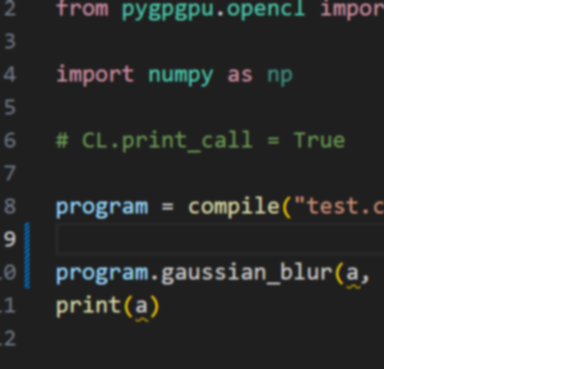
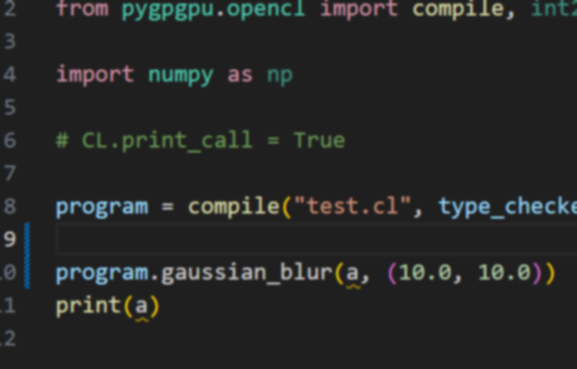
fix image2d bugs

diff --git a/pygpgpu/opencl/oop/event.py b/pygpgpu/opencl/oop/event.py
@@ -5,7 +5,7 @@ from ctypes import pointer, c_void_p, cast, POINTER, py_object
 import concurrent.futures
 import asyncio
 import traceback
-from typing import Dict, Optional, Callable, List, TYPE_CHECKING, Union, override
+from typing import Dict, Optional, Callable, List, TYPE_CHECKING, Union, override, Set
 
 from ..runtime import (
     CL,
@@ -26,6 +26,8 @@ if TYPE_CHECKING:
 
 class Event(CLObject):
 
+    __retained_events:Set[Event] = set()
+
     def __init__(self, context:Context, event_id:Optional[cl_event]=None, func:Optional[CL.Func]=None):
         error_code = cl_int(0)
         self._context:Context = context
@@ -39,16 +41,25 @@ class Event(CLObject):
             event_id = CL.clCreateUserEvent(context, pointer(error_code))
             self._is_user_event:bool = True
 
+        CLObject.__init__(self, event_id)
+        Event.__retained_events.add(self)
+
         self.on_status_changed_callbacks:List[Callable[[Event, Union[cl_command_execution_status, ErrorCode]], None]] = []
         self.on_submitted_callbacks:List[Callable[[Event], None]] = []
         self.on_completed_callbacks:List[Callable[[Event, ErrorCode], None]] = []
         self.on_started_callbacks:List[Callable[[Event], None]] = []
-        CLObject.__init__(self, event_id)
 
         user_data = cast(pointer(py_object(self)), c_void_p)
         CL.clSetEventCallback(self.id, cl_command_execution_status.CL_SUBMITTED, Event._pfn_notify, user_data)
         CL.clSetEventCallback(self.id, cl_command_execution_status.CL_RUNNING, Event._pfn_notify, user_data)
         CL.clSetEventCallback(self.id, cl_command_execution_status.CL_COMPLETE, Event._pfn_notify, user_data)
+        
+        status = self.status
+        if status == cl_command_execution_status.CL_COMPLETE or isinstance(status, ErrorCode):
+            try:
+                Event.__retained_events.remove(self)
+            except:
+                pass
 
     def wait(events:Union[Event, List[Event]])->None:
         if isinstance(events, Event):
@@ -144,12 +155,11 @@ class Event(CLObject):
             status = cl_command_execution_status(event_command_status)
         else:
             status = ErrorCode(event_command_status)
-
-        try:
-            self:Event = cast(user_data, POINTER(py_object)).contents.value
-        except:
-            print(event, status, user_data)
-
+        
+        self:Event = cast(user_data, POINTER(py_object)).contents.value
+        if not isinstance(self, Event):
+            raise RuntimeError("invalid event")
+        
         for on_status_changed in self.on_status_changed_callbacks:
             on_status_changed(self, status)
 
@@ -167,6 +177,9 @@ class Event(CLObject):
 
             for on_completed in self.on_completed_callbacks:
                 on_completed(self, error_code)
+
+        if (status == cl_command_execution_status.CL_COMPLETE or isinstance(status, ErrorCode)) and self in Event.__retained_events:
+            Event.__retained_events.remove(self)
 
     @override
     @staticmethod

diff --git a/pygpgpu/opencl/runtime/clinfo.py b/pygpgpu/opencl/runtime/clinfo.py
@@ -1553,6 +1553,27 @@ class CLInfo:
             }
         },
 
+        # cl_sampler clCreateSamplerWithProperties(
+        #     cl_context context,
+        #     const cl_sampler_properties* sampler_properties,
+        #     cl_int* errcode_ret
+        # );
+        "clCreateSamplerWithProperties": {
+            "args": {
+                "context": cl_context,
+                "sampler_properties": ptr_cl_ulong,
+                "errcode_ret": ptr_cl_int
+            },
+            "restype": cl_sampler,
+            "errors": {
+                ErrorCode.CL_INVALID_CONTEXT: "context is not a valid context.",
+                ErrorCode.CL_INVALID_VALUE: "the property name in sampler_properties is not a supported property name, if the value specified for a supported property name is not valid, or the same property name is specified more than once.",
+                ErrorCode.CL_INVALID_OPERATION: "images are not supported by any device associated with context (i.e. CL_DEVICE_IMAGE_SUPPORT specified in the Device Queries table is CL_FALSE).",
+                ErrorCode.CL_OUT_OF_RESOURCES: "there is a failure to allocate resources required by the OpenCL implementation on the device.",
+                ErrorCode.CL_OUT_OF_HOST_MEMORY: "there is a failure to allocate resources required by the OpenCL implementation on the host."
+            }
+        },
+
         # cl_int clGetSamplerInfo(
         #     cl_sampler sampler,
         #     cl_sampler_info param_name,

diff --git a/pygpgpu/opencl/oop/sampler.py b/pygpgpu/opencl/oop/sampler.py
@@ -10,7 +10,8 @@ from ..runtime import (
     cl_int,
     CLInfo,
     IntEnum,
-    cl_sampler_info
+    cl_sampler_info,
+    cl_ulong
 )
 
 if TYPE_CHECKING:
@@ -24,7 +25,17 @@ class sampler(CLObject):
 
     def __init__(self, context:Context, sampler_t_:sampler_t)->None:
         error_code = cl_int(0)
-        sampler_id:cl_sampler = CL.clCreateSampler(context.id, sampler_t_.normalized_coords, sampler_t_.addressing_mode, sampler_t_.filter_mode, pointer(error_code))
+        try:
+            sampler_id:cl_sampler = CL.clCreateSampler(context.id, sampler_t_.normalized_coords, sampler_t_.addressing_mode, sampler_t_.filter_mode, pointer(error_code))
+        except RuntimeError:
+            props = (cl_ulong * 7)(
+                cl_sampler_info.CL_SAMPLER_NORMALIZED_COORDS, sampler_t_.normalized_coords,
+                cl_sampler_info.CL_SAMPLER_ADDRESSING_MODE,   sampler_t_.addressing_mode,
+                cl_sampler_info.CL_SAMPLER_FILTER_MODE,       sampler_t_.filter_mode,
+                0
+            )
+            sampler_id:cl_sampler = CL.clCreateSamplerWithProperties(context.id, props, pointer(error_code))
+
         self._context:Context = context
         self._sampler_t:sampler_t = sampler_t_
         CLObject.__init__(self, sampler_id)

diff --git a/pygpgpu/opencl/oop/kernel.py b/pygpgpu/opencl/oop/kernel.py
@@ -102,7 +102,7 @@ class Kernel(CLObject):
 
     def __call__(self, *args, **kwargs)->None:
         all_events = self._call(args, kwargs)
-        return Event.wait(all_events)
+        Event.wait(all_events)
 
     def submit(self, *args, **kwargs)->concurrent.futures.Future:
         all_events = self._call(args, kwargs)
@@ -236,7 +236,13 @@ class Kernel(CLObject):
         for arg in self._arg_list:
             if arg.mem is not None and ((arg.mem.flags & cl_mem_flags.CL_MEM_WRITE_ONLY) or (arg.mem.flags & cl_mem_flags.CL_MEM_READ_WRITE)) and not (arg.mem.flags & cl_mem_flags.CL_MEM_READ_ONLY):
                 arg_shape = (arg.mem.data.shape if arg.mem.data is not None else arg.mem.shape)
-                if arg.base_type_str in CLInfo.vec_types and arg_shape[-1] == CLInfo.vec_types[arg.base_type_str].__len__(None):
+                if ((
+                        arg.base_type_str in CLInfo.vec_types and
+                        arg_shape[-1] == CLInfo.vec_types[arg.base_type_str].__len__(None)
+                    ) or (
+                        len(arg_shape) == 3 and isinstance(arg.mem, image2d)
+                    )
+                ):
                     arg_shape = arg_shape[:-1]
                     
                 if max_shape is None:

diff --git a/pygpgpu/opencl/oop/buffer.py b/pygpgpu/opencl/oop/buffer.py
@@ -76,7 +76,6 @@ class Buffer(Mem):
         event_id = cl_event(0)
         CL.clEnqueueWriteBuffer.record_call_stack()
         CL.clEnqueueWriteBuffer(cmd_queue.id, self.id, False, offset, size, host_ptr, len(after_events), events_ptr, pointer(event_id))
-        print("write buffer event", event_id)
         return Event(self.context, event_id, CL.clEnqueueWriteBuffer)
 
     def read(self, cmd_queue:CommandQueue, offset:int=0, size:int=None, host_ptr:c_void_p=None, after_events:List[Event]=None)->Event:
@@ -96,7 +95,6 @@ class Buffer(Mem):
         event_id = cl_event(0)
         CL.clEnqueueReadBuffer.record_call_stack()
         CL.clEnqueueReadBuffer(cmd_queue.id, self.id, True, offset, size, host_ptr, len(after_events), events_ptr, pointer(event_id))
-        print("read buffer event", event_id)
         return Event(self.context, event_id, CL.clEnqueueReadBuffer)
 
     def set_data(self, cmd_queue:CommandQueue, data:Union[bytes, bytearray, np.ndarray], after_events:List[Event]=None)->Event:

diff --git a/pygpgpu/opencl/oop/clobject.py b/pygpgpu/opencl/oop/clobject.py
@@ -48,7 +48,7 @@ class CLObject(ABC):
 
         value = self._fetch_info(key)
         if key not in CLInfo.no_cached_info:
-            self._info[name] = self._fetch_info(key)
+            self._info[name] = value
 
         return value
     
@@ -133,6 +133,8 @@ class CLObject(ABC):
             return cls.from_buffer_copy(buffer).value
         elif issubclass(cls, LittleEndianStructure):
             return cls.from_buffer_copy(buffer)
+        elif issubclass(cls, cl_bool):
+            return bool(cl_uint.from_buffer_copy(buffer).value)
         elif issubclass(cls, IntEnum):
             return cls(cls.dtype().from_buffer_copy(buffer).value)
         elif issubclass(cls, IntFlag):
@@ -141,5 +143,4 @@ class CLObject(ABC):
             return buffer.value.decode("utf-8")
         elif issubclass(cls, bytes):
             return buffer.raw
-        elif issubclass(cls, cl_bool):
-            return bool(cl_uint.from_buffer_copy(buffer).value)
+        

diff --git a/pygpgpu/opencl/oop/image2d.py b/pygpgpu/opencl/oop/image2d.py
@@ -54,8 +54,7 @@ class image2d(Mem):
         event_id = cl_event(0)
         CL.clEnqueueWriteImage.record_call_stack()
         CL.clEnqueueWriteImage(cmd_queue.id, self.id, False, ptr_origin, ptr_region, 0, 0, host_ptr, len(after_events), events_ptr, pointer(event_id))
-        event = Event(self.context, event_id, CL.clEnqueueWriteImage)
-        return event
+        return Event(self.context, event_id, CL.clEnqueueWriteImage)
 
     def read(self, cmd_queue:CommandQueue, origin:Tuple[int, int]=(0, 0), region:Tuple[int, int]=(0, 0), host_ptr:c_void_p=None, after_events:List[Event]=None)->Event:
         if cmd_queue.context != self.context:

diff --git a/pygpgpu/opencl/oop/sampler_t.py b/pygpgpu/opencl/oop/sampler_t.py
@@ -6,7 +6,7 @@ from ..runtime import (
 
 class sampler_t:
 
-    def __init__(self, normalized_coords:bool=False, addressing_mode:cl_addressing_mode=cl_addressing_mode.CL_ADDRESS_REPEAT, filter_mode:cl_filter_mode=cl_filter_mode.CL_FILTER_LINEAR)->None:
+    def __init__(self, normalized_coords:bool=False, addressing_mode:cl_addressing_mode=cl_addressing_mode.CL_ADDRESS_CLAMP_TO_EDGE, filter_mode:cl_filter_mode=cl_filter_mode.CL_FILTER_LINEAR)->None:
         self._normalized_coords:bool = normalized_coords
         self._addressing_mode:cl_addressing_mode = addressing_mode
         self._filter_mode:cl_filter_mode = filter_mode

diff --git a/main.py b/main.py
@@ -6,8 +6,8 @@ import numpy as np
 
 # CL.print_call = True
 
-program = compile("test.cl", type_checked=False)
+program = compile("test.cl", type_checked=True)
 src_image = image2d_t("test.png")
 dest_image = image2d_t(np.zeros_like(src_image.data))
-program.gaussian_blur(src_image, dest_image, sampler_t())
+program.gaussian_blur[Platforms[0].devices[0]](src_image, dest_image, sampler_t())
 dest_image.save("dest.png")
